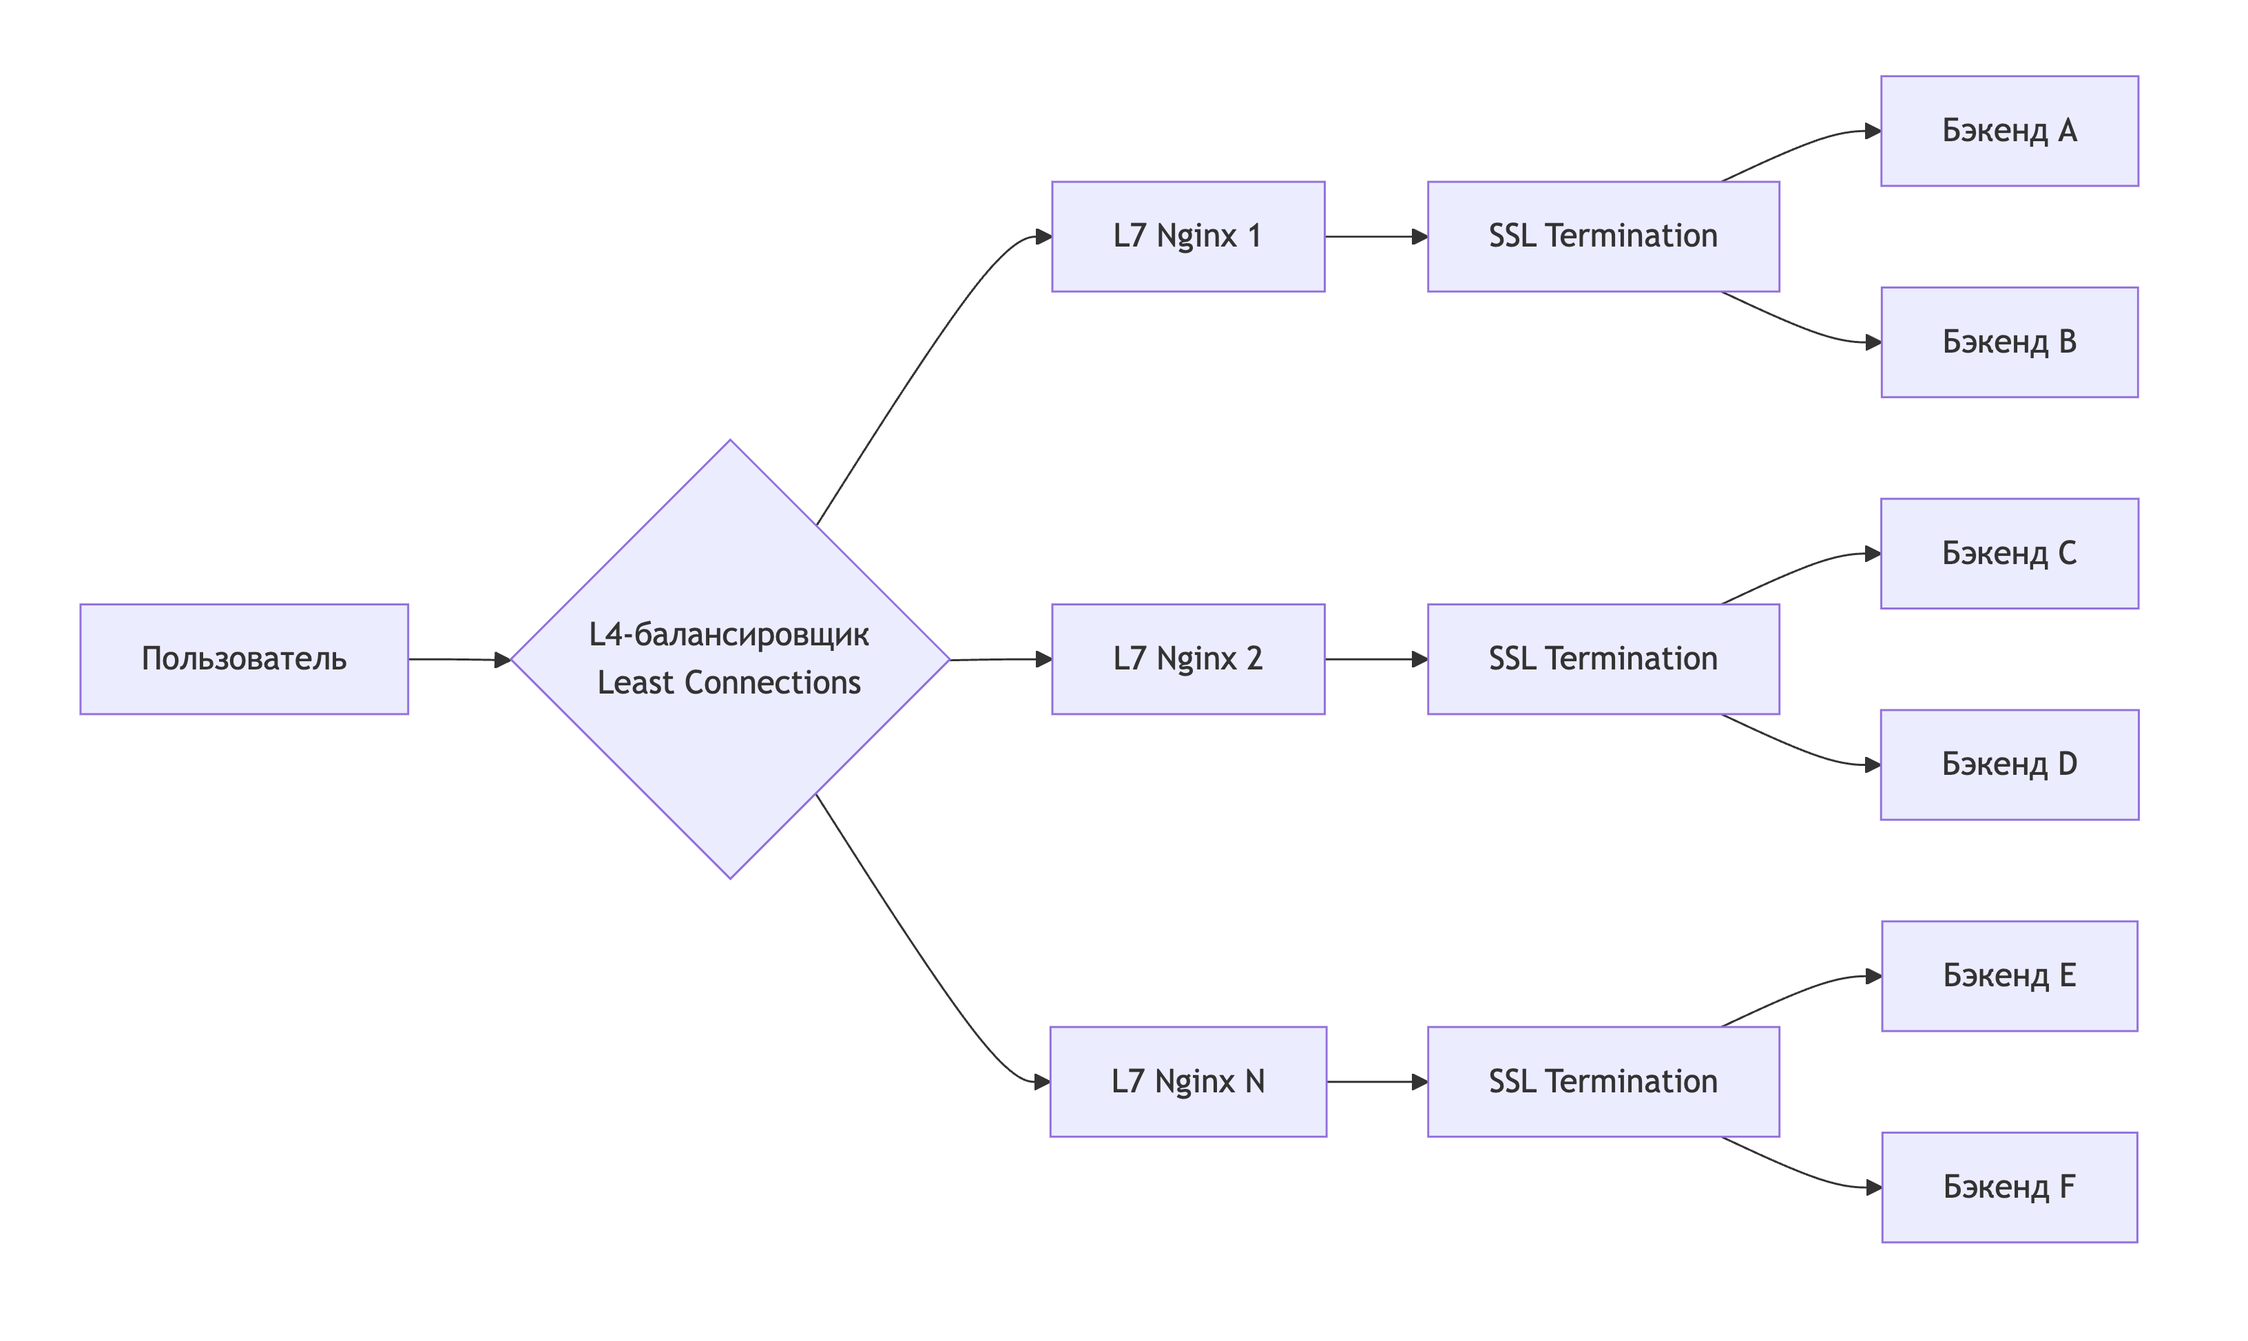
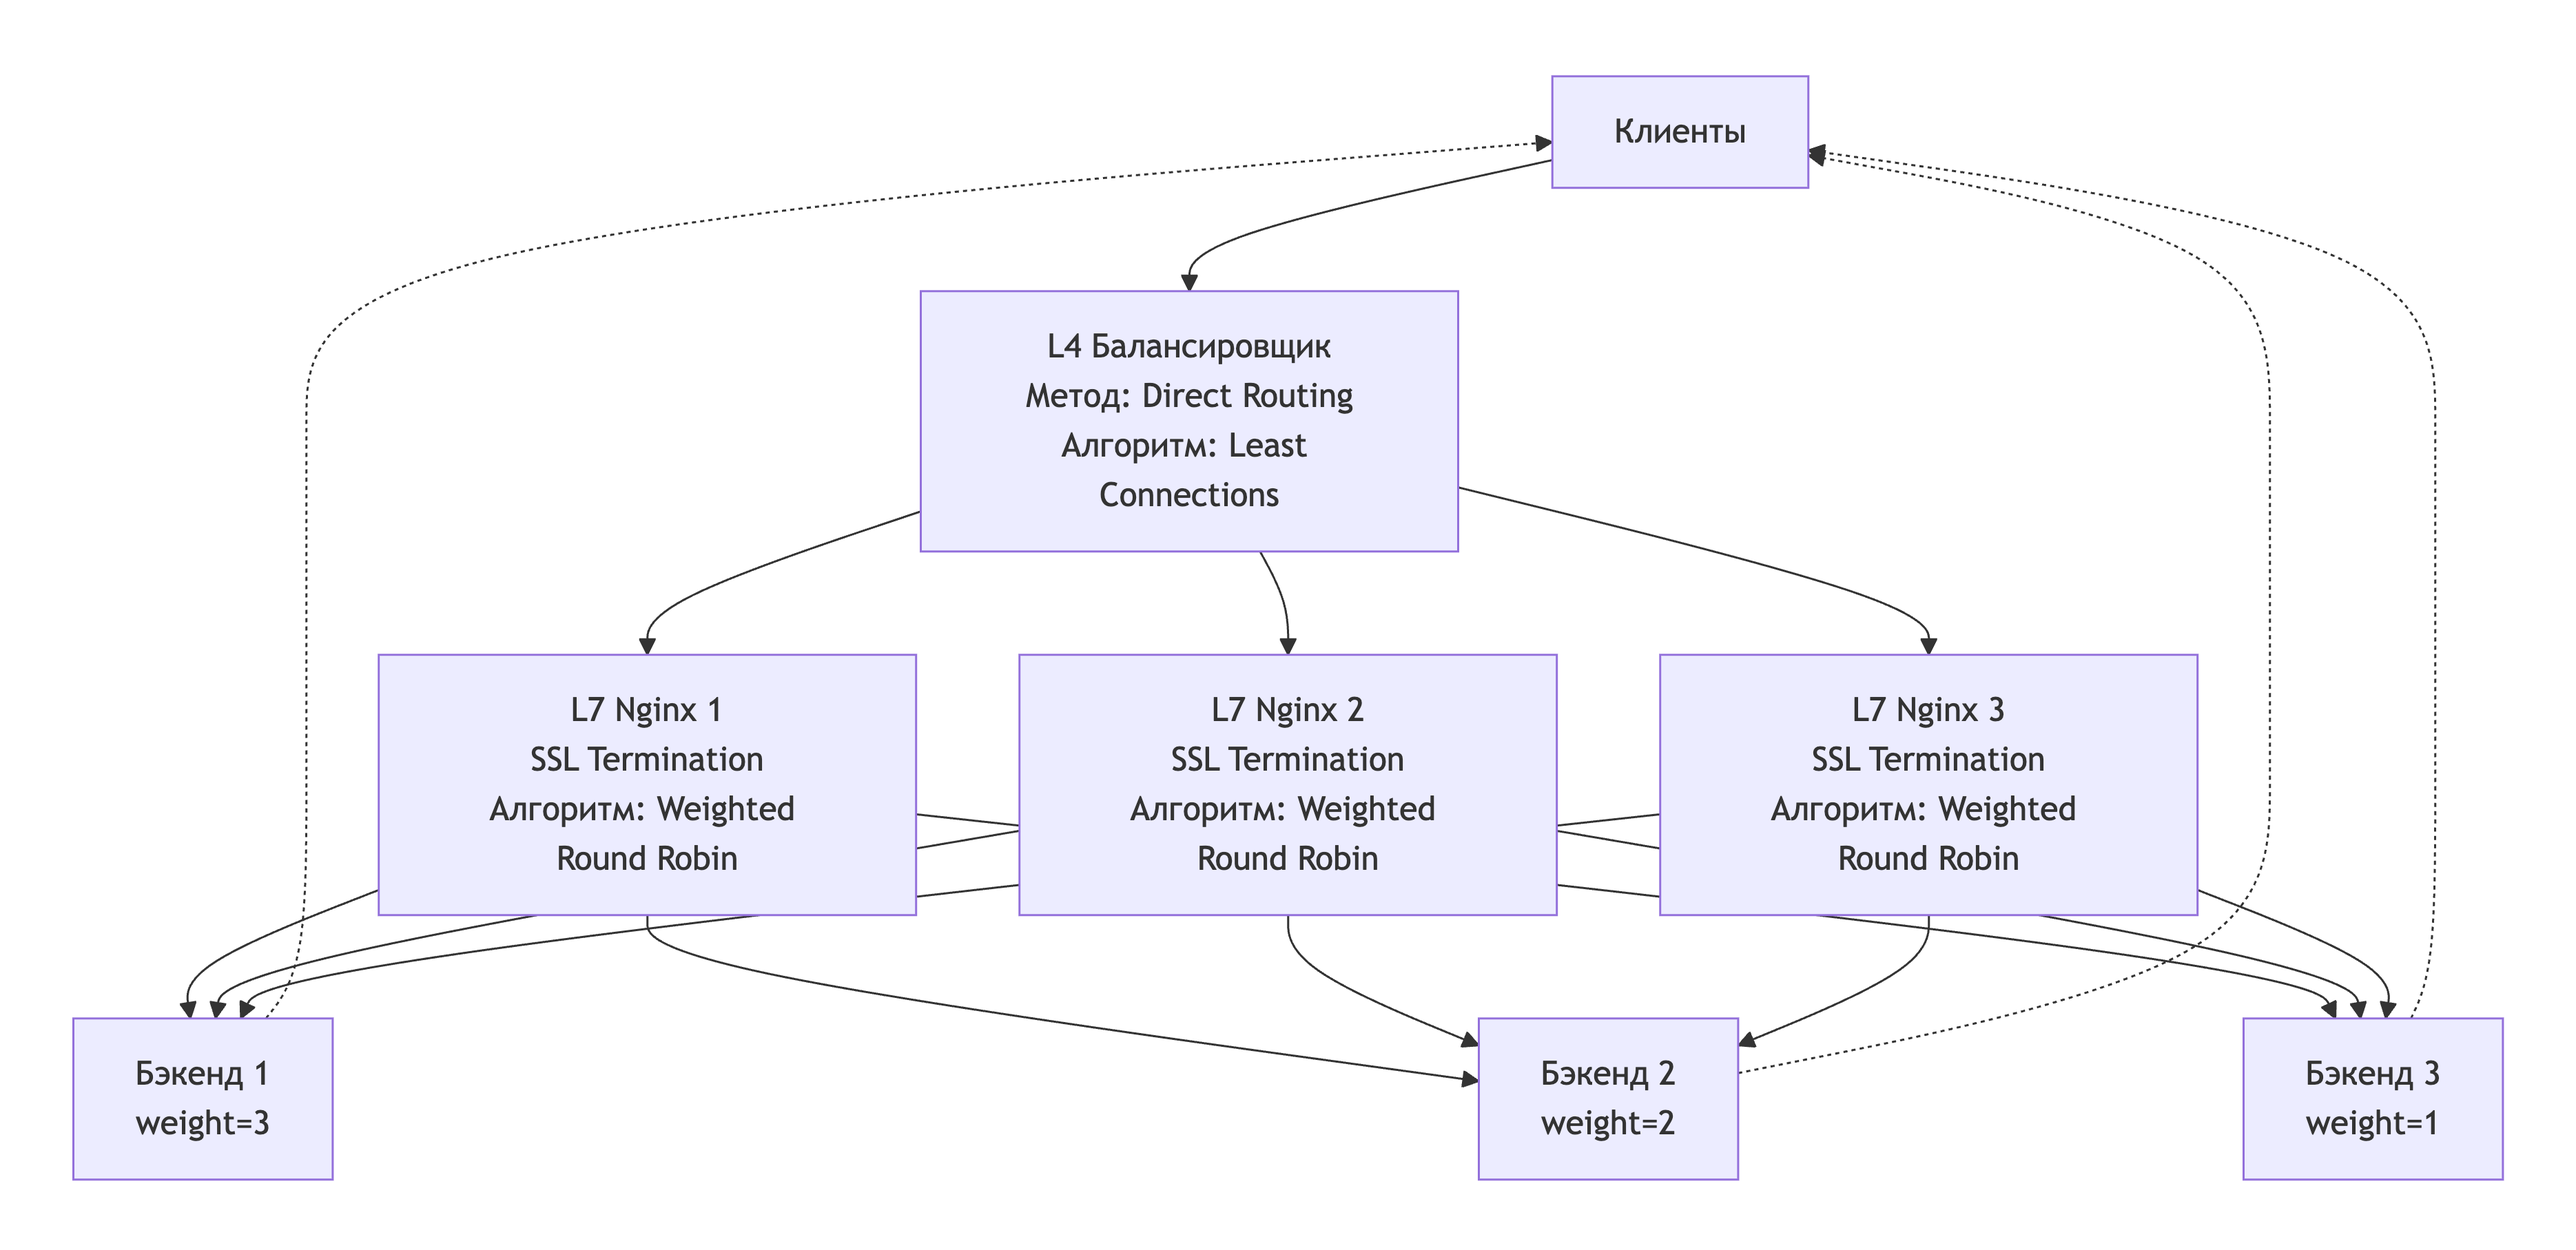
u

diff --git a/README.md b/README.md
@@ -131,7 +131,7 @@ https://seller.wildberries.ru/ - для продавцов
 ## 4. Локальная балансировка нагрузки
 
 ### Схема локальной балансировки
-После попадания пользователя на один из ДЦ, его запрос обрабатывается L4-балансировщиком, который использует алгоритм Least Connections (распределяет на машину с наименьшим числом подключений) для распределения трафика между L7 балансировщиками. Каждый L7-балансировщик работает на отдельной машине с установленным Nginx, где происходит терминация SSL и распределение по серверам на бэкенде по алгоритму Weighted Round Robin.
+После попадания пользователя на один из ДЦ (благодаря Virtual Server via Direct Routing попадает на L4-балансировщики), его запрос обрабатывается L4-балансировщиком, который использует алгоритм Least Connections (распределяет на машину с наименьшим числом подключений) для распределения трафика между L7 балансировщиками. Каждый L7-балансировщик работает на отдельной машине с установленным Nginx, где происходит терминация SSL и распределение по серверам на бэкенде по алгоритму Weighted Round Robin.
 ![Схема локальной балансировки](Локальная%20балансировка.png)
 
 | Компонент     | Формула резервирования |
